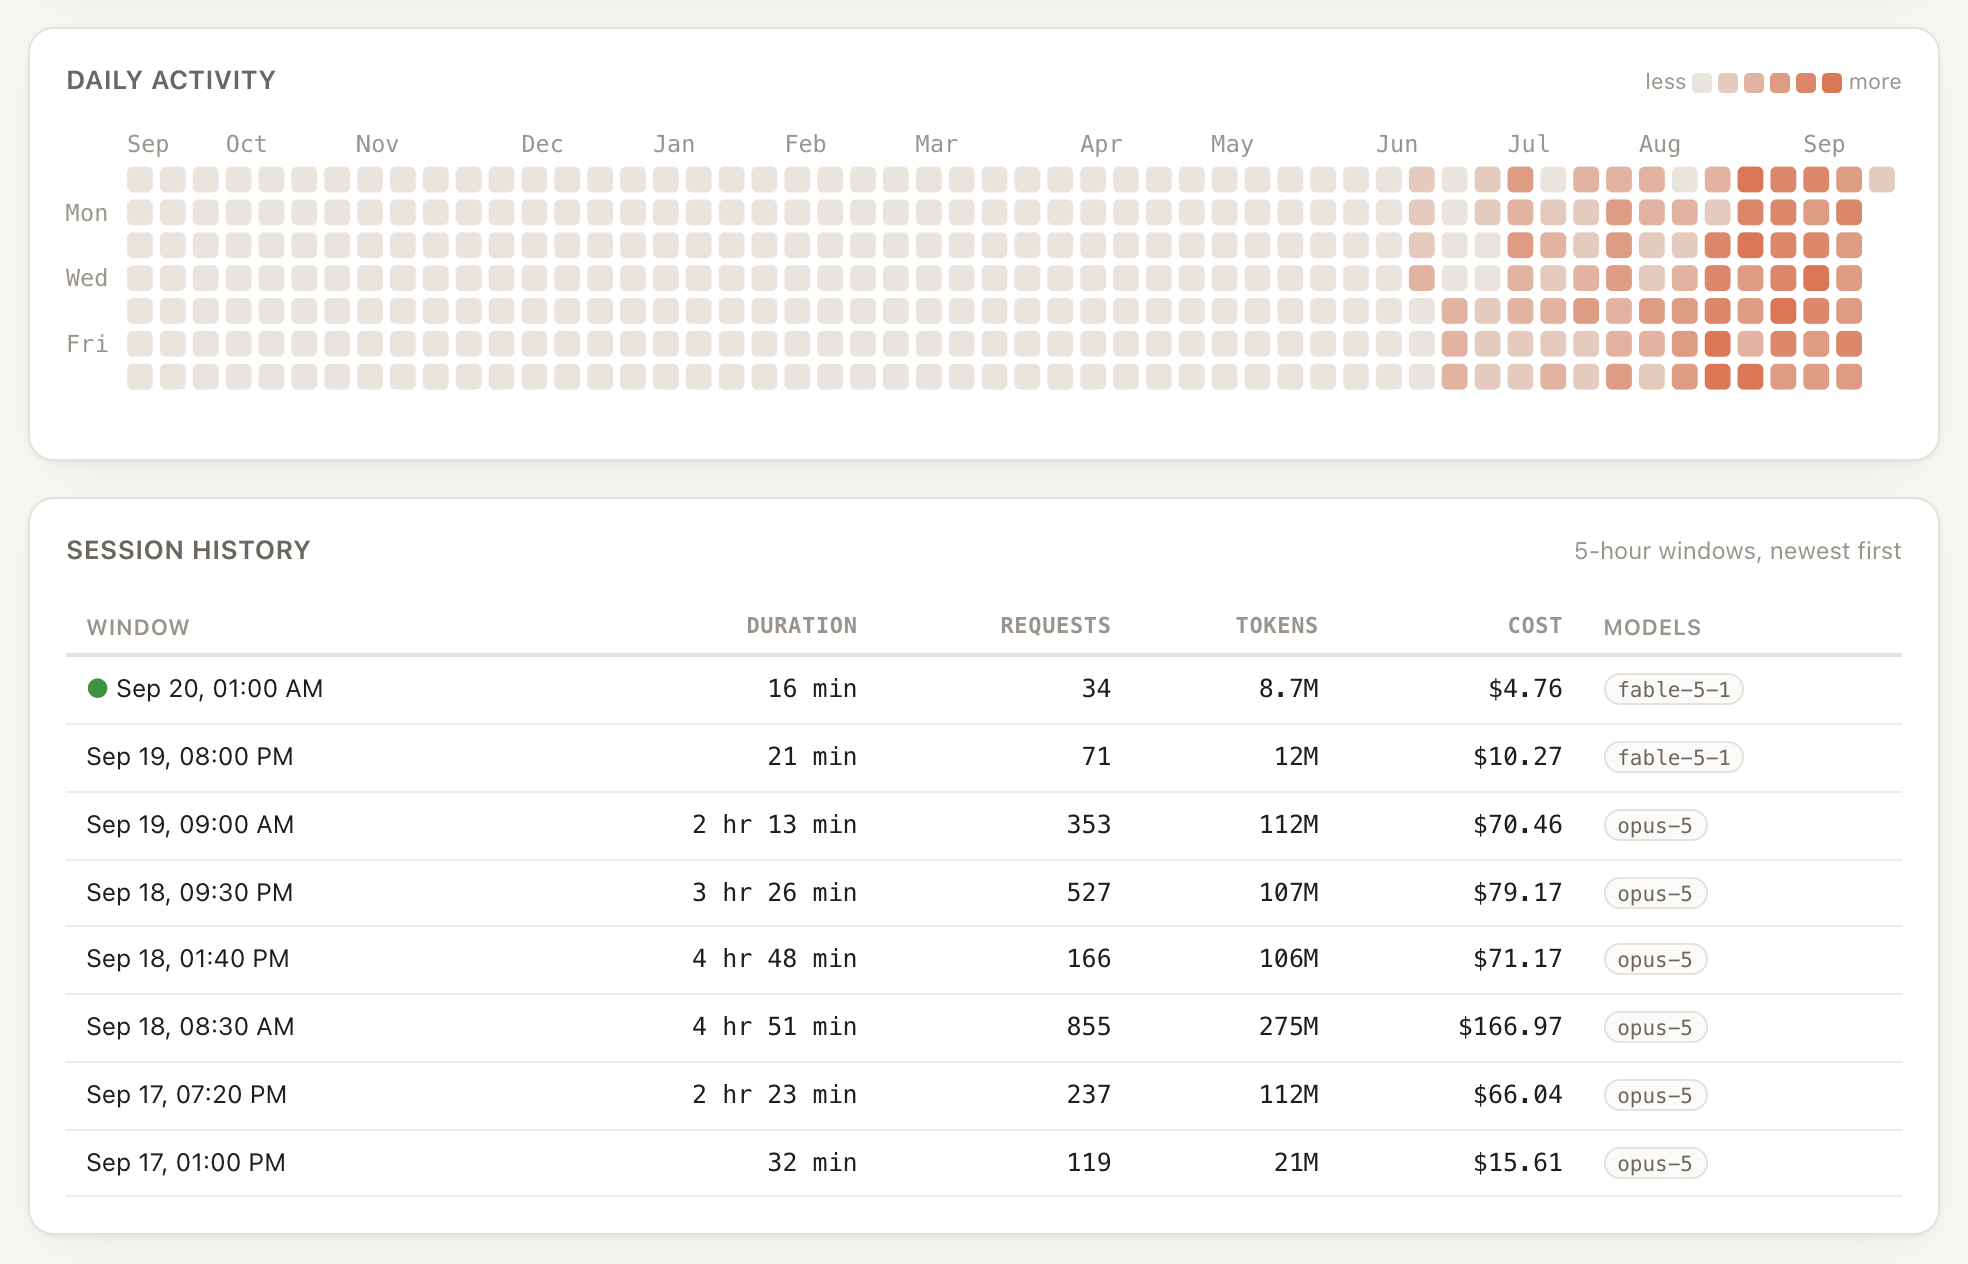
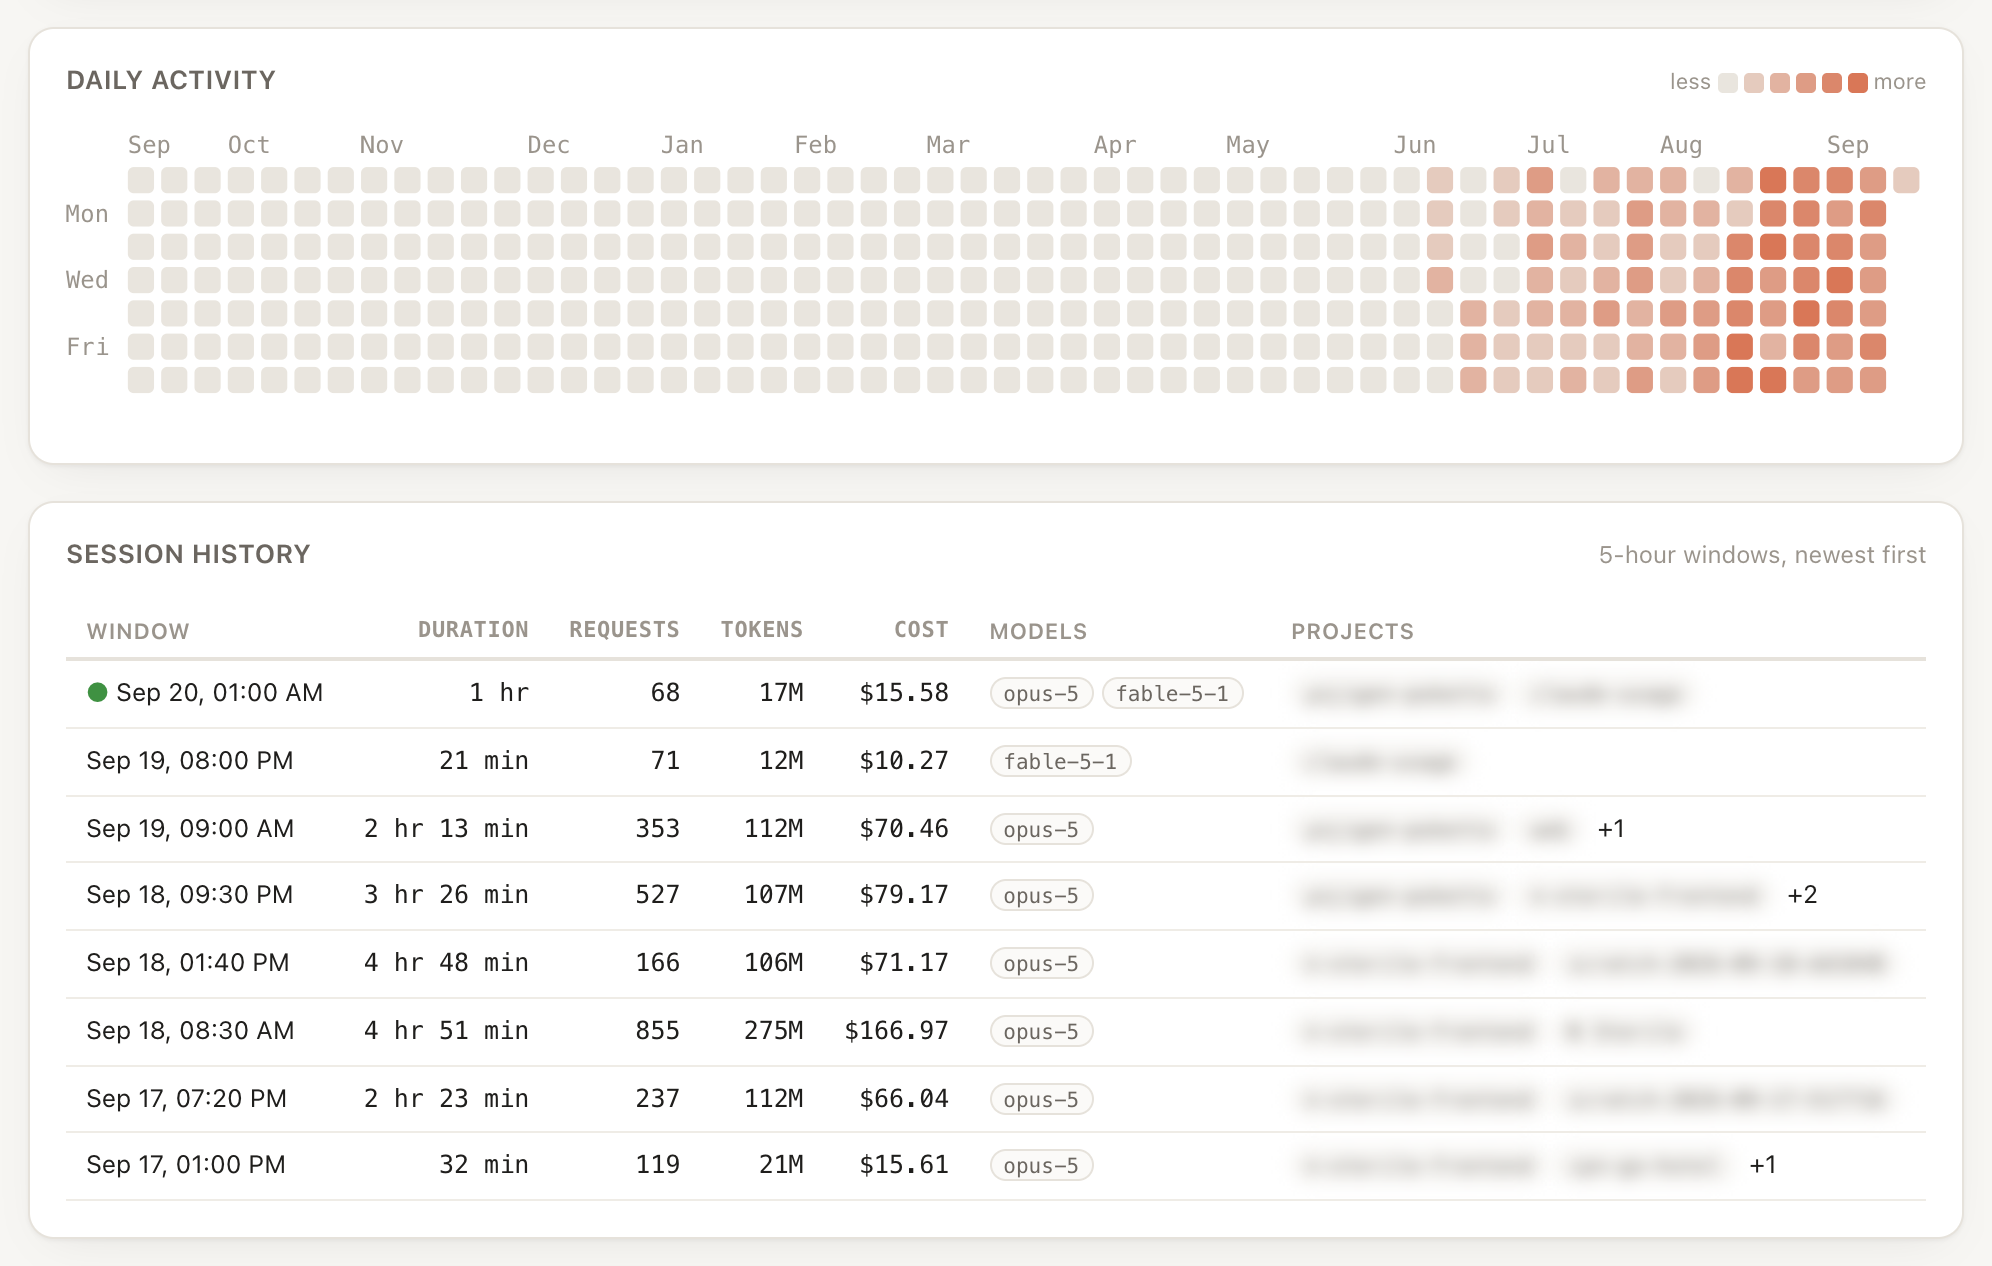
1.6.3: hold the weighting scheme unless a challenger fits clearly better; project column in Session history
Five weeks of sliding 14-day fits on the reference account: the 5-hour capacity
is flat at 5.5-5.7 (uncached), so the 'limit x1.4' shown earlier was the
resets_at-jitter bug, not a plan boost. What does move is the weekly window's
winning scheme - residuals 5-15% apart, the winner changed on four of seven
days - and every scheme measures capacity in its own units, so capacity and
the burn figures jumped between polls. pickScheme() keeps the stored scheme
until another fits at least 10% better.

Session history gains a Projects column (top two by cost, hover for the
amount, count of the rest); claude-usage blocks prints the top project.

diff --git a/web/app.js b/web/app.js
@@ -270,6 +270,11 @@ async function renderBlocks() {
   $('#blocks-tbl tbody').innerHTML = bs.length ? bs.map((b) => {
     const models = Object.keys(b.models).slice(0, 3)
       .map((m) => `<span class="pill">${esc(m.replace('claude-', ''))}</span>`).join('');
+    // Projects by cost within the window; the rest are counted, not listed.
+    const names = Object.keys(b.projects || {});
+    const projects = names.slice(0, 2)
+      .map((p) => `<span class="pill project" title="${esc(p)} · ${fmtMoney(b.projects[p])}">${esc(p)}</span>`).join('') +
+      (names.length > 2 ? `<span class="muted" title="${esc(names.slice(2).join(', '))}"> +${names.length - 2}</span>` : '');
     return `<tr>
       <td>${b.active ? '<span class="live-dot">●</span> ' : ''}${new Date(b.start).toLocaleString([], { month: 'short', day: 'numeric', hour: '2-digit', minute: '2-digit' })}</td>
       <td class="r">${humanDur(b.durationMs)}</td>
@@ -277,8 +282,9 @@ async function renderBlocks() {
       <td class="r">${fmtCompact(b.tokens)}</td>
       <td class="r">${fmtMoney(b.cost)}</td>
       <td>${models}</td>
+      <td>${projects}</td>
     </tr>`;
-  }).join('') : '<tr><td colspan="6" class="hint">No sessions in range.</td></tr>';
+  }).join('') : '<tr><td colspan="7" class="hint">No sessions in range.</td></tr>';
 }
 
 async function renderBreakdown() {

diff --git a/web/index.html b/web/index.html
@@ -103,7 +103,7 @@
       <table class="tbl" id="blocks-tbl">
         <thead><tr>
           <th>Window</th><th class="r">Duration</th><th class="r">Requests</th>
-          <th class="r">Tokens</th><th class="r">Cost</th><th>Models</th>
+          <th class="r">Tokens</th><th class="r">Cost</th><th>Models</th><th>Projects</th>
         </tr></thead>
         <tbody></tbody>
       </table>

diff --git a/CLAUDE.md b/CLAUDE.md
@@ -1,7 +1,7 @@
 # claude-usage — engineering handoff
 
 Read this before touching code. It is the state of the project as of 2026-09-20
-(v1.6.2), the decisions that were made deliberately, the traps already
+(v1.6.3), the decisions that were made deliberately, the traps already
 stepped in, and what to build next. The user (Wisit, GIPSIC) reads Thai and
 English; reply in the language they write in, and lead with status.
 
@@ -144,7 +144,7 @@ live do API-only windows go stale.
 
 ## Testing
 
-`npm test` — 66 tests, hermetic: `tempHome()` sets `CLAUDE_USAGE_HOME`,
+`npm test` — 67 tests, hermetic: `tempHome()` sets `CLAUDE_USAGE_HOME`,
 `CLAUDE_USAGE_NO_KEYCHAIN=1`, `CLAUDE_USAGE_OFFLINE=1`, a fake desktop-cache path,
 and copies `test/fixtures/` **per process** (a shared copy raced between
 `scanner.test` and `server.test`). `CLAUDE_USAGE_MOCK_USAGE='{"status":401}'` or
@@ -305,7 +305,12 @@ Not doing: any ingest server / telemetry.
   Resolved 2026-09-20 with six weeks of API history: real resets on top of a
   fixed weekly phase; the phase does not move (see Reset inference above).
 - Calibration across Anthropic's temporary limit boosts ("50% higher through
-  Sep 13") — a regime step; currently handled by fitting on recent segments.
+  Sep 13") — a regime step; handled by fitting on recent segments and flagging
+  a >1.4x shift against the prior 14 days. Checked 2026-09-20: no step visible in
+  five weeks of sliding fits (5-hour capacity flat at 5.5-5.7 `uncached`); the
+  `x1.4` once shown was the resets_at-jitter bug. What *does* move is the
+  winning scheme on the weekly window (residuals 5-15% apart) - hence
+  `pickScheme` hysteresis (hold the incumbent unless 10% better) since 1.6.3.
 - `seven_day` from the desktop cache vs `weekly_all` from the API are the same
   window; the scoped Fable window exists only via the API (since 1.6.0 it is
   estimated from local Fable transcripts while no token is live, never cached).

diff --git a/CHANGELOG.md b/CHANGELOG.md
@@ -6,6 +6,14 @@ All notable changes are recorded here. The format follows
 
 ## [Unreleased]
 
+## [1.6.3] — 2026-09-20
+
+### Added
+- **Session history shows which projects each 5-hour window went to.** A Projects column with the top two by cost (hover for the amount) and a count of the rest; `claude-usage blocks` prints the top project too. `/api/blocks` already carried `projects`.
+
+### Changed
+- **Calibration keeps its weighting scheme unless a challenger fits clearly better.** On a weekly window the candidate schemes' residuals sit within 5–15% of each other and the winner changed on four of seven days on a real account; each scheme measures capacity in its own units, so `capacity`, `remainingWeight` and the burn figures jumped between polls with nothing having changed. The stored scheme is now held until another fits at least 10% better (`limits.pickScheme`). Checked while here: with the jitter fix in, the 5-hour capacity on the reference account is flat at 5.5–5.7 across five weeks of sliding 14-day fits, so the "limit ↑ ×1.4" it showed earlier was that bug, not a plan boost.
+
 ## [1.6.2] — 2026-09-20
 
 ### Added
